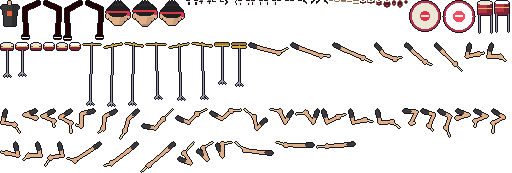
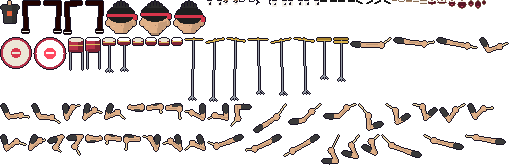
Band view: Scott Pilgrim game proportions, bigger guitars and hands
- Characters about 3 heads tall: a big head and hair, short torso, solid
  limbs, big hands and sneakers, knees a little bent, big eyes with
  whites, pupils and a shine, three tones of shading
- Guitars and basses bigger, held higher at a steeper angle, with a
  pickguard; bigger palms and fists so the fingering reads
- Hair raised to show a forehead; brows clear of the hair

diff --git a/scripts/band-sprites.ts b/scripts/band-sprites.ts
@@ -146,8 +146,9 @@ class Sheet {
 
 /* ---------------------------------------------------------------- people */
 
-// Proportions after the Scott Pilgrim game's sprites: about 3.5 heads tall, long thin legs, a narrow
-// torso, a big head with big eyes (whites and pupils), chunky shoes, thick dark outlines.
+// Proportions after the Scott Pilgrim game's sprites (Paul Robertson): about 3 heads tall, a big head
+// with big hair and big eyes (whites, pupils, a shine), a short torso, solid limbs, big hands and feet,
+// knees a little bent, thick dark outlines, three tones of shading.
 
 interface Look {
   skin: string; hair: string; shirt: string; shirt2: string; pants: string; shoes: string;
@@ -155,142 +156,159 @@ interface Look {
 }
 const shade = (c: string, k: number): RGBA => { const [r, g, b] = hex(c); return [Math.min(255, r * k), Math.min(255, g * k), Math.min(255, b * k), 255]; };
 
-const HIP = -40, SHOULDER = -63, HEAD: Pt = [0, -77];
-const HEAD_R = 10.5;
+const HIP = -33, SHOULDER = -55, HEAD: Pt = [0, -70];
+const HEAD_R = 13;
 /** Where the face features sit for each head pose (how far they move). */
 const POSES: Record<string, Pt> = { front: [0, 0], up: [0, -2], down: [0, 2] };
-const SH_A: Pt = [-7.5, SHOULDER + 1], SH_B: Pt = [7.5, SHOULDER + 1];
-const ARM = 13;
+const SH_A: Pt = [-8.5, SHOULDER + 2], SH_B: Pt = [8.5, SHOULDER + 2];
+const ARM = 12.5;
 
 function legs(s: Sheet, L: Look) {
   for (const [name, spread] of [['stand', 0], ['wide', 3.5]] as const) s.add(`legs/${name}`, (g) => {
     for (const side of [-1, 1]) {
-      const hip: Pt = [side * 3, HIP + 1], knee: Pt = [side * (3 + spread * 0.6), -20], foot: Pt = [side * (3.5 + spread), -3];
-      g.line(hip, knee, hex(L.pants), 4.5);
-      g.line(knee, foot, hex(L.pants), 4);
-      g.line([hip[0] + side, hip[1]], [knee[0] + side, knee[1]], shade(L.pants, 0.78), 1.2);
-      // chunky sneakers: a white toe cap
-      const fx = foot[0] + side * 1.5;
-      g.rect(fx - 3.5, -4, 7, 4, hex(L.shoes));
-      g.rect(fx + (side > 0 ? 1.5 : -3.5), -2, 2, 2, hex('#f2f0ea'));
-      g.rect(fx - 3.5, -1, 7, 1, hex('#f2f0ea'));
+      // knees a little bent and out: a ready stance
+      const hip: Pt = [side * 3.5, HIP + 1], knee: Pt = [side * (5 + spread * 0.7), -15], foot: Pt = [side * (4 + spread), -3];
+      g.line(hip, knee, hex(L.pants), 6);
+      g.line(knee, foot, hex(L.pants), 5);
+      g.line([hip[0] + side * 1.5, hip[1]], [knee[0] + side * 1.5, knee[1]], shade(L.pants, 0.75), 1.4);
+      g.line([knee[0] + side * 1.2, knee[1]], [foot[0] + side * 1.4, foot[1] - 2], shade(L.pants, 0.75), 1.2);
+      g.rect(knee[0] - side * 1.5, knee[1] - 3, 1, 2, shade(L.pants, 1.2));
+      // big sneakers: a white sole and toe cap
+      const fx = foot[0] + side * 2;
+      g.ellipse(fx, -3, 5.5, 3, hex(L.shoes));
+      g.rect(fx - 5.5, -1.5, 11, 1.5, hex('#f2f0ea'));
+      g.rect(fx + (side > 0 ? 2 : -5), -3.5, 3, 2, hex('#f2f0ea'));
     }
-    g.rect(-5.5, HIP, 11, 4, hex(L.pants));
+    g.rect(-7, HIP, 14, 4, hex(L.pants));
   });
 }
 
 function torso(s: Sheet, L: Look) {
   s.add('body/idle', (g) => {
-    g.rect(-1.5, SHOULDER - 4, 3, 5, hex(L.skin)); // neck
-    g.rect(-1.5, SHOULDER - 1, 3, 1, shade(L.skin, 0.8));
-    g.poly([[-7, SHOULDER], [7, SHOULDER], [5.5, HIP], [-5.5, HIP]], hex(L.shirt));
-    for (const x of [-6.5, 6.5]) g.disc(x, SHOULDER + 2.5, 2.5, hex(L.shirt));
-    g.poly([[1.5, SHOULDER], [7, SHOULDER], [5.5, HIP], [2.5, HIP]], shade(L.shirt, 0.8));
-    g.rect(-5, SHOULDER + 1, 3, 1, shade(L.shirt, 1.2));
-    g.rect(-2, SHOULDER, 4, 2, shade(L.shirt, 0.65)); // the collar
-    g.rect(-2.5, SHOULDER + 6, 5, 5, hex(L.shirt2)); // a print
-    g.rect(-5.5, HIP - 1, 11, 2, shade(L.pants, 0.6)); // belt
-    g.set(0, HIP - 1, hex('#d8c070'));
+    g.rect(-2.5, SHOULDER - 4, 5, 5, hex(L.skin)); // neck
+    g.rect(-2.5, SHOULDER - 2, 5, 2, shade(L.skin, 0.75)); // the head's shadow
+    g.poly([[-9, SHOULDER], [9, SHOULDER], [7, HIP], [-7, HIP]], hex(L.shirt));
+    for (const x of [-8, 8]) g.disc(x, SHOULDER + 3, 3.2, hex(L.shirt));
+    g.poly([[2.5, SHOULDER], [9, SHOULDER], [7, HIP], [3.5, HIP]], shade(L.shirt, 0.78));
+    g.disc(8, SHOULDER + 3, 3.2, shade(L.shirt, 0.78));
+    g.rect(-7, SHOULDER + 1, 5, 1, shade(L.shirt, 1.22)); // light from above
+    g.rect(-8, SHOULDER + 2, 1, 6, shade(L.shirt, 1.12));
+    g.rect(-3, SHOULDER, 6, 2, shade(L.shirt, 0.6)); // the collar
+    g.rect(-3, SHOULDER + 6, 6, 6, hex(L.shirt2)); // a print
+    g.rect(-1, SHOULDER + 8, 2, 2, hex(L.shirt));
+    g.rect(-7, HIP - 1, 14, 2, shade(L.pants, 0.55)); // belt
+    g.rect(-1, HIP - 1, 2, 2, hex('#d8c070'));
   });
 }
 
+/** Hair in units of the old 10.5px head, scaled to this one. */
 function hairOf(g: Img, L: Look, cy: number, f: number) {
-  const hair = hex(L.hair), hairD = shade(L.hair, 0.75), r = HEAD_R;
+  const k = HEAD_R / 10.5, r = HEAD_R;
+  const P = (x: number, y: number): Pt => [x * k, cy + y * k];
+  const poly = (pts: [number, number][], c: RGBA) => g.poly(pts.map(([x, y]) => P(x, y)), c);
+  const hair = hex(L.hair), hairD = shade(L.hair, 0.72), hairL = shade(L.hair, 1.3);
+  const fy = f / 2;
   switch (L.hairStyle) {
     case 'spiky':
-      g.ellipse(0, cy - 6 + f / 2, r + 1, 6, hair);
-      for (let k = -4; k <= 4; k++) g.poly([[k * 2.8 - 3, cy - 8 + f / 2], [k * 2.8 + 3, cy - 8 + f / 2], [k * 3.4, cy - 19 + Math.abs(k) * 1.3 + f / 2]], k % 2 ? hairD : hair);
-      g.poly([[-r, cy - 6], [-2, cy - 6 + f], [-r - 1, cy + 2]], hair);
-      g.poly([[r, cy - 6], [2, cy - 6 + f], [r + 1, cy + 2]], hair);
+      g.ellipse(0, cy + (-6 + fy) * k, r + 1, 6.5 * k, hair);
+      for (let j = -4; j <= 4; j++) poly([[j * 2.8 - 3, -8 + fy], [j * 2.8 + 3, -8 + fy], [j * 3.4, -20 + Math.abs(j) * 1.3 + fy]], j % 2 ? hairD : hair);
+      poly([[-10.5, -6], [-2, -6 + f], [-11.5, 3]], hair);
+      poly([[10.5, -6], [2, -6 + f], [11.5, 3]], hair);
+      poly([[-6, -7 + fy], [0, -7 + fy], [-4, -1 + f]], hair); // a fringe lock
       break;
     case 'beanie':
-      g.ellipse(0, cy - 6 + f / 2, r + 1.5, 7.5, hex('#3f7f6f'));
-      g.rect(-r - 1.5, cy - 4 + f / 2, 2 * r + 3, 3, hex('#2f5f53'));
-      for (let x = -r; x < r; x += 2) g.set(x, cy - 3 + f / 2, hex('#4f9282'));
-      g.rect(-r, cy - 1 + f / 2, 3, 5, hair); g.rect(r - 3, cy - 1 + f / 2, 3, 5, hair);
+      g.ellipse(0, cy + (-6 + fy) * k, r + 1.5, 8 * k, hex('#3f7f6f'));
+      g.rect(-r - 1.5, cy + (-4 + fy) * k, 2 * r + 3, 4, hex('#2f5f53'));
+      for (let x = -r; x < r; x += 2) g.set(x, cy + (-3 + fy) * k, hex('#4f9282'));
+      g.rect(-r + 1, cy + (-6.5 + fy) * k, 5, 1, hex('#5fa898'));
+      g.rect(-r, cy + (-0.5 + fy) * k, 4, 6, hair); g.rect(r - 4, cy + (-0.5 + fy) * k, 4, 6, hair);
       break;
     case 'long':
-      g.ellipse(0, cy - 5 + f / 2, r + 1.5, 7, hair);
-      g.rect(-r - 2, cy - 5, 4, 19, hair); g.rect(r - 2, cy - 5, 4, 19, hair);
-      g.poly([[-8, cy - 6], [3, cy - 6], [-5, cy + f]], hairD);
+      g.ellipse(0, cy + (-5 + fy) * k, r + 1.5, 7.5 * k, hair);
+      g.rect(-r - 2, cy - 5 * k, 5, 20 * k, hair); g.rect(r - 3, cy - 5 * k, 5, 20 * k, hair);
+      poly([[-8, -6], [3, -6], [-5, f]], hairD);
+      poly([[2, -6], [8, -6], [7, -1 + f]], hair);
       break;
     case 'bob':
-      g.ellipse(0, cy - 5 + f / 2, r + 1.5, 7, hair);
-      g.rect(-r - 2, cy - 5, 5, 12, hair); g.rect(r - 3, cy - 5, 5, 12, hair);
-      g.rect(-8, cy - 7 + f / 2, 16, 4 + f / 2, hair);
-      for (let x = -7; x < 8; x += 3) g.set(x, cy - 3 + f / 2 + f / 2, hairD);
+      g.ellipse(0, cy + (-5 + fy) * k, r + 1.5, 7.5 * k, hair);
+      g.rect(-r - 2, cy - 5 * k, 6, 12 * k, hair); g.rect(r - 4, cy - 5 * k, 6, 12 * k, hair);
+      g.rect(-8 * k, cy + (-7 + fy) * k, 16 * k, (4 + fy) * k, hair);
+      for (let x = -7; x < 8; x += 3) g.set(x * k, cy + (-3 + f) * k, hairD);
       break;
     case 'band':
-      g.ellipse(0, cy - 4 + f / 2, r + 0.5, 6.5, hairD);
-      for (let k = -2; k <= 2; k++) g.poly([[k * 2.4 - 1.6, cy - 9], [k * 2.4 + 1.6, cy - 9], [k * 2.4, cy - 16 + Math.abs(k) * 1.5]], hair);
-      g.rect(-r - 1, cy - 4 + f / 2, 2 * r + 2, 2, hex('#d8344a'));
-      g.rect(r - 1, cy - 3 + f / 2, 3, 4, hex('#d8344a'));
+      g.ellipse(0, cy + (-4 + fy) * k, r + 0.5, 7 * k, hairD);
+      for (let j = -2; j <= 2; j++) poly([[j * 2.4 - 1.6, -9], [j * 2.4 + 1.6, -9], [j * 2.4, -17 + Math.abs(j) * 1.5]], hair);
+      g.rect(-r - 1, cy + (-4 + fy) * k, 2 * r + 2, 3, hex('#d8344a'));
+      g.rect(r - 1, cy + (-3 + fy) * k, 4, 5, hex('#d8344a'));
       break;
   }
-  if (L.hairStyle !== 'beanie' && L.hairStyle !== 'band') g.rect(-6, cy - 10 + f / 2, 5, 1, shade(L.hair, 1.3));
+  if (L.hairStyle !== 'beanie' && L.hairStyle !== 'band') { g.rect(-7 * k, cy + (-10 + fy) * k, 6, 1, hairL); g.rect(-6 * k, cy + (-9 + fy) * k, 3, 1, hairL); }
 }
 
 function head(s: Sheet, L: Look, lift = 0) {
-  if (L.hairStyle === 'long') s.add('hair/back', (g) => { g.poly([[-12, HEAD[1] - 5 + lift], [12, HEAD[1] - 5 + lift], [13, SHOULDER + 6 + lift], [-13, SHOULDER + 6 + lift]], shade(L.hair, 0.72)); });
+  if (L.hairStyle === 'long') s.add('hair/back', (g) => { g.poly([[-HEAD_R - 2, HEAD[1] - 5 + lift], [HEAD_R + 2, HEAD[1] - 5 + lift], [HEAD_R + 3, SHOULDER + 8 + lift], [-HEAD_R - 3, SHOULDER + 8 + lift]], shade(L.hair, 0.72)); });
   for (const pose of Object.keys(POSES)) s.add(`head/${pose}`, (g) => {
     const [, dy] = POSES[pose];
     const cy = HEAD[1] + dy / 2 + lift;
-    const skin = hex(L.skin);
-    g.ellipse(-HEAD_R, cy + 1, 2, 2.8, skin); // ears
-    g.ellipse(HEAD_R, cy + 1, 2, 2.8, skin);
-    g.ellipse(0, cy - 1, HEAD_R, HEAD_R - 1, skin);
-    g.poly([[-HEAD_R + 1, cy + 2], [HEAD_R - 1, cy + 2], [4, cy + 10], [-4, cy + 10]], skin); // a narrower jaw
-    g.poly([[2, cy + 2], [HEAD_R - 1, cy + 2], [4, cy + 10], [1, cy + 10]], shade(L.skin, 0.9));
-    if (pose === 'up') g.rect(-3, cy + 9, 6, 2, shade(L.skin, 0.8));
-    hairOf(g, L, cy, dy);
+    const skin = hex(L.skin), skinD = shade(L.skin, 0.88);
+    g.ellipse(-HEAD_R, cy + 1, 2.4, 3.2, skin); // ears
+    g.ellipse(HEAD_R, cy + 1, 2.4, 3.2, skinD);
+    g.ellipse(0, cy - 1, HEAD_R, HEAD_R - 1.5, skin);
+    g.poly([[-HEAD_R + 1, cy + 2], [HEAD_R - 1, cy + 2], [5, cy + 11.5], [-5, cy + 11.5]], skin); // a narrower jaw
+    g.poly([[3, cy + 1], [HEAD_R - 0.5, cy - 1], [HEAD_R - 1, cy + 3], [5, cy + 11.5], [2, cy + 11.5]], skinD);
+    g.rect(-9, cy + 4, 3, 1, shade(L.skin, 1.06)); // a cheek
+    g.set(0, cy + 3, shade(L.skin, 0.8)); // the nose
+    if (pose === 'up') g.rect(-4, cy + 11, 8, 2, shade(L.skin, 0.78));
+    hairOf(g, L, cy - 2.5, dy);
   });
 }
 
 /** Eyes, brows and mouths at the front pose (the view moves them with the head). No outline: they sit on the face. */
 function face(s: Sheet, L: Look, lift = 0) {
-  const ey = HEAD[1] + lift, ex = 4, dark = INK, white = hex('#f6f2ea'), lid = shade(L.skin, 0.68);
-  // each eye a box 3 wide, its inner edge toward the nose
-  const eye = (fn: (g: Img, x: number, inward: number) => void) => (g: Img) => { fn(g, -ex - 1, 1); fn(g, ex - 1, -1); };
-  const pupil = (g: Img, x: number, dx: number) => g.rect(x + 1 + dx, ey - 1, 1, 3, dark);
-  s.add('eyes/open', eye((g, x, inw) => { g.rect(x, ey - 2, 3, 4, white); g.rect(x - 0.5, ey - 3, 4, 1, dark); pupil(g, x, inw > 0 ? 1 : -1); g.rect(x + 1, ey - 1, 1, 3, dark); }), false);
-  s.add('eyes/half', eye((g, x) => { g.rect(x, ey, 3, 2, white); g.rect(x - 0.5, ey - 1, 4, 1, dark); g.rect(x + 1, ey, 1, 2, dark); g.rect(x, ey - 2, 3, 1, lid); }), false);
-  s.add('eyes/closed', eye((g, x) => { g.rect(x - 0.5, ey + 1, 4, 1, dark); g.set(x - 1, ey, dark); }), false);
+  const ey = HEAD[1] + 1 + lift, ex = 5, dark = INK, white = hex('#f6f2ea'), lid = shade(L.skin, 0.68), shine = hex('#ffffff');
+  // big anime eyes: a white 4 wide and 5 tall, a 2x3 pupil with a shine, a heavy upper lid
+  const eye = (fn: (g: Img, x: number) => void) => (g: Img) => { fn(g, -ex - 2); fn(g, ex - 2); };
+  const iris = (g: Img, x: number, dx: number, h = 3) => { g.rect(x + 1 + dx, ey - 1, 2, h, dark); g.set(x + 1 + dx, ey - 1, shine); };
+  const lidTop = (g: Img, x: number, y = ey - 3) => g.rect(x - 0.5, y, 5, 1, dark);
+  s.add('eyes/open', eye((g, x) => { g.rect(x, ey - 2, 4, 5, white); lidTop(g, x); iris(g, x, 0.5); }), false);
+  s.add('eyes/half', eye((g, x) => { g.rect(x, ey, 4, 3, white); g.rect(x, ey - 2, 4, 2, lid); lidTop(g, x, ey - 1); iris(g, x, 0.5, 2); }), false);
+  s.add('eyes/closed', eye((g, x) => { g.rect(x - 0.5, ey + 1, 5, 1, dark); g.set(x - 1, ey, dark); g.set(x + 4, ey, dark); }), false);
   s.add('eyes/squeeze', (g) => {
-    for (const [x, d] of [[-ex - 1, 1], [ex - 1, -1]] as const) { g.line([x - 0.5 + (d > 0 ? 0 : 3), ey - 2], [x + 1.5, ey], dark); g.line([x + 1.5, ey], [x - 0.5 + (d > 0 ? 0 : 3), ey + 2], dark); }
+    for (const [x, d] of [[-ex - 2, 1], [ex - 2, -1]] as const) { g.line([x - 0.5 + (d > 0 ? 0 : 4), ey - 2], [x + 2, ey], dark); g.line([x + 2, ey], [x - 0.5 + (d > 0 ? 0 : 4), ey + 2], dark); }
   }, false);
-  s.add('eyes/wide', eye((g, x) => { g.rect(x - 0.5, ey - 3, 4, 5, white); g.rect(x - 0.5, ey - 4, 4, 1, dark); g.rect(x + 1, ey - 1, 1, 2, dark); }), false);
+  s.add('eyes/wide', eye((g, x) => { g.rect(x - 0.5, ey - 3, 5, 6, white); lidTop(g, x, ey - 4); g.rect(x + 1, ey - 1, 2, 2, dark); g.set(x + 1, ey - 1, shine); }), false);
   for (const [n, d] of [['left', -1], ['right', 1]] as const)
-    s.add(`eyes/${n}`, eye((g, x) => { g.rect(x, ey - 2, 3, 4, white); g.rect(x - 0.5, ey - 3, 4, 1, dark); g.rect(x + 1 + d, ey - 1, 1, 3, dark); }), false);
+    s.add(`eyes/${n}`, eye((g, x) => { g.rect(x, ey - 2, 4, 5, white); lidTop(g, x); iris(g, x, d > 0 ? 1.5 : -0.5); }), false);
 
   const by = ey - 5, brow = shade(L.hair, 0.55);
   const brows = (dy0: number, dy1: number) => (g: Img) => {
-    g.line([-ex - 2, by + dy0], [-ex + 1.5, by + dy1], brow); g.line([-ex - 2, by + dy0 + 0.6], [-ex + 1.5, by + dy1 + 0.6], brow);
-    g.line([ex + 1.5, by + dy0], [ex - 2, by + dy1], brow); g.line([ex + 1.5, by + dy0 + 0.6], [ex - 2, by + dy1 + 0.6], brow);
+    g.line([-ex - 3, by + dy0], [-ex + 2, by + dy1], brow, 1.6);
+    g.line([ex + 2, by + dy0], [ex - 3, by + dy1], brow, 1.6);
   };
   s.add('brows/neutral', brows(0, 0), false);
   s.add('brows/raised', brows(-2, -2), false);
   s.add('brows/furrow', brows(-1, 1.5), false);
   s.add('brows/sad', brows(1.5, -1), false);
 
-  const my = HEAD[1] + 5 + lift, lip = shade(L.skin, 0.6), inside = hex('#5a1626'), teeth = hex('#f6f2ea'), tongue = hex('#c8506a');
+  const my = HEAD[1] + 7 + lift, lip = shade(L.skin, 0.6), inside = hex('#5a1626'), teeth = hex('#f6f2ea'), tongue = hex('#c8506a');
   const open = (w: number, h: number, t = true) => (g: Img) => {
     g.ellipse(0, my + h / 2, w / 2 + 0.6, h / 2 + 0.6, lip);
     g.ellipse(0, my + h / 2, w / 2, h / 2, inside);
     if (t) g.rect(-w / 2 + 1, my, w - 2, 1, teeth);
     if (h >= 4) g.rect(-1, my + h - 1.5, 2, 1, tongue);
   };
-  s.add('mouth/rest', (g) => g.rect(-2, my + 1, 4, 1, lip), false);
-  s.add('mouth/smile', (g) => { g.rect(-2, my + 1, 4, 1, lip); g.set(-3, my, lip); g.set(2, my, lip); }, false);
-  s.add('mouth/M', (g) => { g.rect(-2, my, 5, 1, lip); g.rect(-2, my + 1, 5, 1, shade(L.skin, 0.75)); }, false);
-  s.add('mouth/F', (g) => { g.rect(-2, my, 5, 1, teeth); g.rect(-2, my + 1, 5, 1, lip); }, false);
-  s.add('mouth/S', (g) => { g.rect(-3, my - 1, 6, 1, lip); g.rect(-3, my, 6, 2, teeth); g.rect(-3, my + 2, 6, 1, lip); }, false);
-  s.add('mouth/E', open(6, 2), false);
-  s.add('mouth/I', (g) => { open(7, 2)(g); g.set(-4, my - 1, lip); g.set(3, my - 1, lip); }, false);
-  s.add('mouth/A', open(5, 4), false);
-  s.add('mouth/A+', open(6, 6), false);
-  s.add('mouth/O', open(3.5, 4, false), false);
-  s.add('mouth/O+', open(4.5, 6, false), false);
-  s.add('mouth/U', open(2.5, 2.5, false), false);
+  s.add('mouth/rest', (g) => g.rect(-2.5, my + 1, 5, 1, lip), false);
+  s.add('mouth/smile', (g) => { g.rect(-2.5, my + 1, 5, 1, lip); g.set(-3.5, my, lip); g.set(2.5, my, lip); }, false);
+  s.add('mouth/M', (g) => { g.rect(-3, my, 6, 1, lip); g.rect(-3, my + 1, 6, 1, shade(L.skin, 0.75)); }, false);
+  s.add('mouth/F', (g) => { g.rect(-3, my, 6, 1, teeth); g.rect(-3, my + 1, 6, 1, lip); }, false);
+  s.add('mouth/S', (g) => { g.rect(-3.5, my - 1, 7, 1, lip); g.rect(-3.5, my, 7, 2, teeth); g.rect(-3.5, my + 2, 7, 1, lip); }, false);
+  s.add('mouth/E', open(7, 3), false);
+  s.add('mouth/I', (g) => { open(8, 2.5)(g); g.set(-4.5, my - 1, lip); g.set(3.5, my - 1, lip); }, false);
+  s.add('mouth/A', open(6, 5), false);
+  s.add('mouth/A+', open(8, 7), false);
+  s.add('mouth/O', open(4.5, 5, false), false);
+  s.add('mouth/O+', open(5.5, 7, false), false);
+  s.add('mouth/U', open(3, 3, false), false);
 }
 
 function person(s: Sheet, L: Look) {
@@ -318,9 +336,10 @@ function elbow(sh: Pt, hand: Pt, a: number, b: number, side: number): Pt {
 function arm(g: Img, L: Look, sh: Pt, hand: Pt, side: number, a = ARM, b = ARM) {
   const el = elbow(sh, hand, a, b, side);
   const mid: Pt = [sh[0] + (el[0] - sh[0]) * 0.45, sh[1] + (el[1] - sh[1]) * 0.45];
-  g.line(sh, el, hex(L.skin), 3);
-  g.line(sh, mid, hex(L.shirt), 3.6);
-  g.line(el, hand, hex(L.skin), 2.6);
+  g.line(sh, el, hex(L.skin), 4);
+  g.line(sh, mid, hex(L.shirt), 4.8);
+  g.line(el, hand, hex(L.skin), 3.4);
+  g.line([el[0] + 1, el[1]], [hand[0] + 1, hand[1]], shade(L.skin, 0.85), 1);
 }
 
 /* ---------------------------------------------------------------- guitars */
@@ -340,15 +359,16 @@ function instrument(s: Sheet, n: Neck, kind: 'guitar' | 'bass', col: string) {
     const half = ((n.strings - 1) * n.spacing) / 2 + 1.5;
     g.line([bx - 9, by - 4], [6, SHOULDER + 1], hex('#3a2a20'), 2); // the strap
     if (kind === 'bass') {
-      g.ellipse(bx - 3, by + 2, 12, 10, hex(col));
+      g.ellipse(bx - 4, by + 2, 14, 12, hex(col));
       g.ellipse(bx + 7, by - 5, 6, 5, hex(col));
       g.ellipse(bx + 7, by + 7, 5, 4, hex(col));
       g.ellipse(bx - 3, by + 2, 6, 5, shade(col, 1.12));
     } else {
-      g.ellipse(bx - 4, by + 2, 11, 10, hex(col));
-      g.ellipse(bx + 5, by - 4, 7, 6, hex(col));
-      g.ellipse(bx + 5, by + 6, 5, 4, hex(col));
-      g.ellipse(bx - 7, by + 5, 5, 4, shade(col, 0.78));
+      g.ellipse(bx - 5, by + 2, 13, 12, hex(col));
+      g.ellipse(bx + 5, by - 5, 8, 7, hex(col));
+      g.ellipse(bx + 6, by + 7, 6, 5, hex(col));
+      g.ellipse(bx - 9, by + 6, 6, 5, shade(col, 0.78));
+      g.ellipse(bx - 2, by + 3, 7, 6, hex('#efe6d2')); // the pickguard
       g.ellipse(bx - 6, by - 2, 3, 2, shade(col, 1.2));
       g.disc(bx - 9, by + 6, 1, hex('#e8e2d0')); g.disc(bx - 6, by + 8, 1, hex('#e8e2d0')); // knobs
     }
@@ -397,7 +417,7 @@ function fretHands(s: Sheet, L: Look, n: Neck) {
       const low = onNeck(n, at, n.strings - 1);
       const palm: Pt = [low[0], low[1] + 3 + (off ? 2 : 0)];
       arm(g, L, FRET_SHOULDER, [palm[0] + 1, palm[1] + 3], 1);
-      g.ellipse(palm[0], palm[1], 3, 2.4, skin);
+      g.ellipse(palm[0], palm[1], 3.8, 3, skin);
       g.ellipse(palm[0] + 1, palm[1] + 1, 2, 1.4, skinD);
       if (!off) { const t = onNeck(n, at - 0.6, -1.6); g.rect(t[0] - 1, t[1], 2, 1.4, skinD); } // the thumb over the top
       else g.line([palm[0] - 2, palm[1] - 2], [palm[0] - 3, palm[1] - 4], skin, 1.4);
@@ -414,7 +434,7 @@ function pickHands(s: Sheet, L: Look, n: Neck, bass: boolean) {
   const P = n.pick;
   const hand = (g: Img, at: Pt, pickDir: number) => {
     arm(g, L, PICK_SHOULDER, [at[0] - 3, at[1] - 2], -1);
-    g.ellipse(at[0] - 1.5, at[1] - 1, 2.8, 2.5, skin);
+    g.ellipse(at[0] - 1.5, at[1] - 1, 3.6, 3.2, skin);
     g.rect(at[0] - 3, at[1] - 2, 2, 1, shade(L.skin, 1.12));
     if (!bass) g.rect(at[0] + 0.5, at[1] + pickDir, 1, 2, pick);
   };
@@ -446,8 +466,8 @@ function guitarist(name: string, L: Look, col: string, kind: 'guitar' | 'bass') 
   const s = new Sheet();
   person(s, L);
   const n: Neck = kind === 'bass'
-    ? { bridge: [-13, -36], nut: [40, -57], strings: 4, spacing: 1.5, frets: 15, pick: [0, 0] }
-    : { bridge: [-12, -37], nut: [32, -55], strings: 6, spacing: 1, frets: 15, pick: [0, 0] };
+    ? { bridge: [-14, -25], nut: [40, -49], strings: 4, spacing: 1.5, frets: 15, pick: [0, 0] }
+    : { bridge: [-13, -26], nut: [31, -46], strings: 6, spacing: 1, frets: 15, pick: [0, 0] };
   const pp = onNeck(n, 26, (n.strings - 1) / 2);
   n.pick = [Math.round(n.bridge[0] + 6), Math.round(pp[1] + (n.bridge[1] - pp[1]) * 0.6)];
   instrument(s, n, kind, col);
@@ -469,7 +489,7 @@ function singer(L: Look) {
     for (const d of [-5, 5]) g.line([-18, -4], [-18 + d, 0], metal, 1);
   });
   s.add('mic', (g) => { g.line([mic[0] - 3, mic[1] + 3], [mic[0], mic[1]], dark, 2); g.disc(mic[0] + 0.5, mic[1] - 0.5, 1.7, hex('#c8ccd4')); });
-  const fist = (g: Img, p: Pt) => { g.disc(p[0], p[1], 2.2, skin); g.set(p[0] - 1, p[1] - 1, shade(L.skin, 1.12)); };
+  const fist = (g: Img, p: Pt) => { g.disc(p[0], p[1], 3, skin); g.set(p[0] - 1, p[1] - 1, shade(L.skin, 1.12)); };
   const grip: Pt = [mic[0] - 2, mic[1] + 3];
   s.add('armA/mic', (g) => { arm(g, L, SH_A, grip, -1); fist(g, grip); });
   s.add('armA/down', (g) => { arm(g, L, SH_A, [-10, HIP + 1], -1); fist(g, [-10, HIP + 1]); });
@@ -490,7 +510,7 @@ const KIT: Record<string, Pt> = {
 function drummer(L: Look) {
   const s = new Sheet();
   // seated: the head and shoulders lower than standing
-  const lift = 4, seat = -38, sh = SHOULDER + lift;
+  const lift = 5, seat = -32, sh = SHOULDER + lift;
   s.add('body/idle', (g) => {
     g.rect(-1.5, sh - 4, 3, 5, hex(L.skin));
     g.poly([[-7, sh], [7, sh], [6, seat], [-6, seat]], hex(L.shirt));
@@ -558,7 +578,7 @@ function drummer(L: Look) {
       const hand: Pt = [tip[0] + ((sp[0] - tip[0]) / away) * 10, tip[1] + ((sp[1] - tip[1]) / away) * 10 - raise * 0.35];
       arm(g, L, sp, hand, side === 'A' ? -1 : 1, 12, 12);
       g.line(hand, t, stick, 1.2);
-      g.disc(hand[0], hand[1], 2.2, hex(L.skin));
+      g.disc(hand[0], hand[1], 2.8, hex(L.skin));
     });
   }
   s.save('drummer', { kit: KIT, lift, poses: POSES });

diff --git a/docs/BAND-VIEW.md b/docs/BAND-VIEW.md
@@ -62,8 +62,9 @@ string up), and draws each finger from the knuckles to its tip in the skin colou
 shimmer from their fret to the bridge. Fingers and string shimmer are drawn by the view (thin lines);
 everything else is sprites.
 
-Proportions follow the Scott Pilgrim game's sprites: about 3.5 heads tall, long thin legs, a narrow
-torso, big eyes with whites and pupils, chunky shoes, thick dark outlines.
+Proportions follow the Scott Pilgrim game's sprites: about 3 heads tall, a big head and hair, a short torso,
+solid limbs, big hands and sneakers, knees a little bent, big eyes (whites, pupils, a shine), thick
+dark outlines, three tones of shading.
 
 **Making them in Aseprite** (later): one file per player, a layer per part, a tag per frame name;
 export the sheet with JSON; a small converter maps it to this format.
